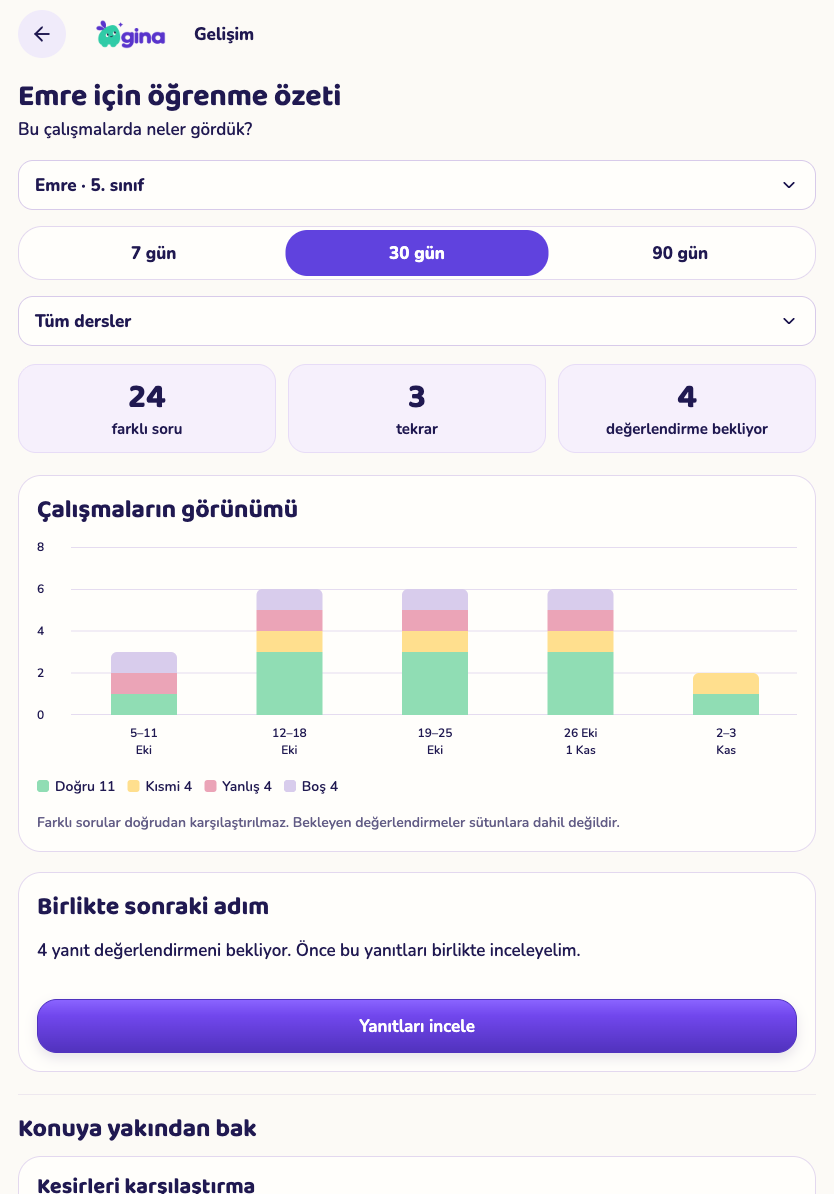
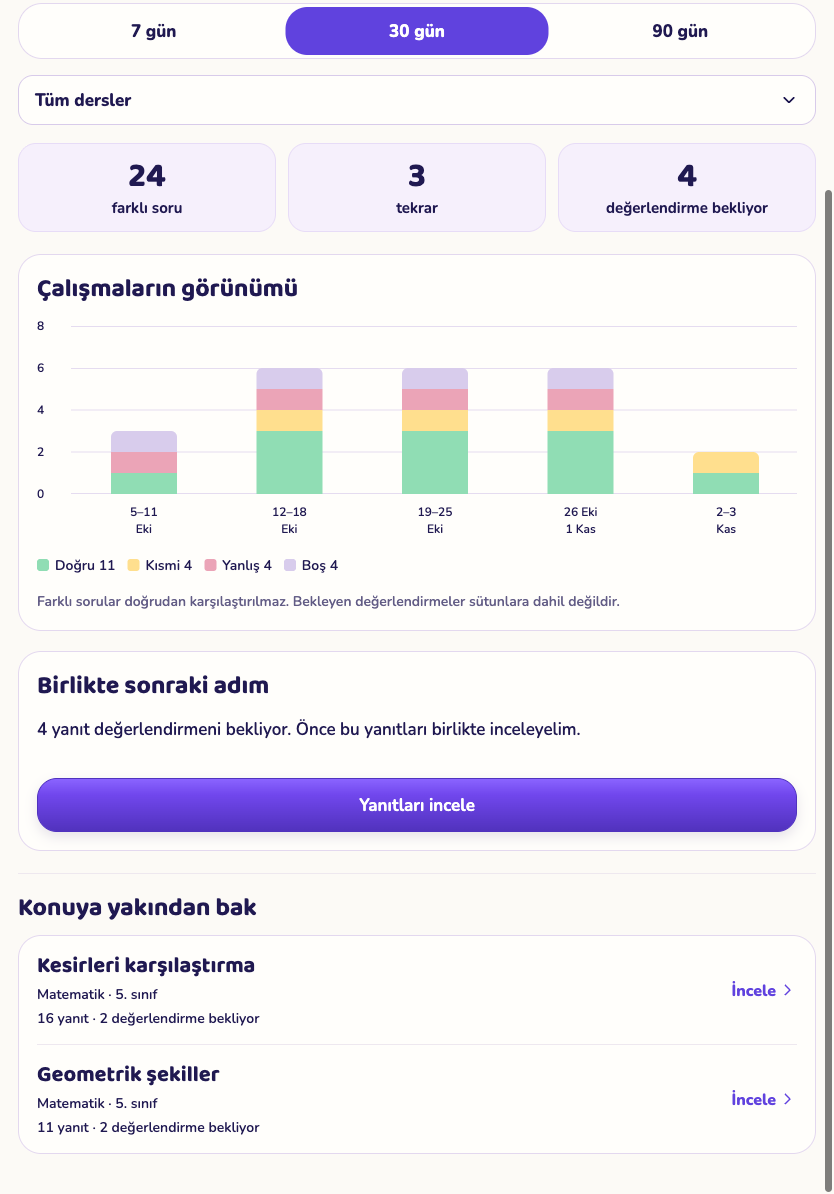
Record clean-session phone and tablet report verification

diff --git a/docs/learning/IMPLEMENTATION-PLAN.md b/docs/learning/IMPLEMENTATION-PLAN.md
@@ -2,14 +2,14 @@
 
 Kullanıcı: **“Hepsini bitirelim sonra yayına alırız.”** Önceki TestFlight dağıtım önceliği ertelendi. Aşağıdaki işler bitmeden yeni TestFlight/mağaza/kablosuz iPad yayını yapılmayacak. Bir PR'ın birleşmesi yayın anlamına gelmez. Yerel geliştirme ve izole testler sürer. Gerçek aile kayıtları reset/reseed edilmez. Önceden ertelenmiş gün/gece/hava ve geniş maskot animasyonları ilk sürüm dışında kalır.
 
-Yeni ekranlarda ekran bazında tasarım onayı korunur. Gelişim ekranı maketi `docs/design/screens/learning-progress/phone-tablet-proposal-v1.png`: **onaylandı**, uygulaması sürüyor; maket uygulama ekranı değildir. Onay beklenirken bağımsız altyapı ve kaynak doğrulama işleri sürdürülür.
+Yeni ekranlarda ekran bazında tasarım onayı korunur. Gelişim ekranı maketi `docs/design/screens/learning-progress/phone-tablet-proposal-v1.png`: **onaylandı ve uygulandı**. Gerçek web bileşeni telefon/tablet önizlemeleri aynı klasörde; native cihaz ve yayın kabulü sürer.
 
 | İş | Güncel durum / kapanış koşulu |
 |---|---|
 | Birleşik Prova | PR #57 main'de. Canlı migration/Edge ve yeni mobil paket dağıtılmadı. |
 | Defter/iPad hataları | Önceki PR #54/#55 kod düzeltmeleri var. Yeni native paketle gerçek cihaz yön/klavye/kalem/tam alan kontrolleri açık. |
 | Kalıcı cevap kurtarma | Bu artım: cihazda son cevap + belirsiz istek saklanır; yeniden açılış ve çakışma kontrolleri. Salt çevrimdışı sınav açma/soru indirme değildir. Native cihaz kontrolü açık. |
-| Gelişim raporu | Bu artım: aile/sınıf/program ayrı hesap, bekleyen/boş/kısmi ayrımı, kanıt soruları. Yeni ekran onayı alındı; uygulaması sürüyor. |
+| Gelişim raporu | Bu artım: aile/sınıf/program ayrı hesap, bekleyen/boş/kısmi ayrımı, kanıt soruları. Onaylı ekran uygulandı: 7/30/90 gün, sınıf/ders filtresi, soruya doğrudan geçiş, az gözlem ayrımı. Telefon/tablet web kabulü geçti; native kabul açık. |
 | MEB/müfredat | 16 resmî 2026–2027/1 tablo ve 648 senaryo adayı; 17 senaryoda açık kaynak yorumu gereği. Tam 1–12 program/çıktı kataloğu değildir. Kaynak incelemesi, okul senaryosu seçimi, katalog/API/AI ve sınav atama bağı açık. |
 | 20 soru / sınıf–ders | İlk matris 77 hücre / 1.540 aday hedefi. Bu havuzda üretim, cevap/görsel denetimi ve editoryal yayın açık; senaryo adayları soru sayılmaz. |
 | Görselli/ortak kaynak katkısı | Bağımsız medya kopyası, tam bağlamlı moderasyon, ödül politikası ve uçtan uca test açık. Mevcut engel erken kaldırılmaz. |

diff --git a/docs/learning/DEVELOPMENT-STATUS.md b/docs/learning/DEVELOPMENT-STATUS.md
@@ -166,3 +166,12 @@ Kullanıcının telefon/tablet maket onayı uygulandı: Ortak içerik → Sorula
 - `operations_members` süreli ve geri alınabilir dar roller getirir. Destek rolü AI, paket/para veya SSS yayın yetkisi kazanmaz. İçerik rolü destek yazışmalarını okuyamaz. Finans/yayın rol kayıtları henüz finans/yayın eylemlerini açmaz; mevcut genel yönetici API'leri değiştirilmedi. Backoffice giriş/menü entegrasyonu açık.
 - SSS taslağı ayrı sürümdür: düzenleme yayımlanmış yanıtı değiştirmez. Aynı sürüm için inceleme → yayın gerekir; yeni taslak eski incelemeyi devralmaz. Metin düz yazı sözleşmesidir, HTML olarak çalıştırılmayacak. Dil/platform alanları ve arşivleme vardır. Özel destek mesajından kendiliğinden SSS üretilmez.
 - 70 yeni pgTAP kontrolü; toplam 37 izole SQL dosyasında 821 kontrol geçti. Tüm workspace tür denetimleri geçti. Ekranlar, ek dosya yükleme, gerçek destek operasyonu ve mağaza iade entegrasyonu tamamlanmış değildir. Canlı migration/TestFlight yapılmadı.
+
+
+## 3 Kasım — onaylı Gelişim ekranı
+
+- Mevcut Prova/Gelişim yolu onaylı krem/mor/mint makete taşındı. Yeni paralel rapor menüsü eklenmedi. 7/30/90 günlük, çocuğa ait sınıf/ders kapsamı; tek çocukta gereksiz Tümü seçimi yok.
+- Farklı soru, tekrar ve bekleyen değerlendirme ayrı. Doğru/kısmi/yanlış/boş sütunları gerçek sayılardan çizilir. Bekleyen yanıtlar yanlış sayılmaz. Konular sınıf/program sürümüyle ayrılır; aynı sorunun tekrarı bağımsız gözlem sayılmaz. Eski “zayıf konu” ortalaması bu ekrandan kaldırıldı.
+- Konu açılınca en fazla beş kanıt yanıtı görünür; bağlantı doğru deneme ve soruyu açar. Veli notu/puanı veya toplu değerlendirme kaydedilince rapor önbelleği geçersizlenir.
+- 390×844, 1280×800 ve 834×1194 gerçek Expo web bileşenlerinde sentetik veriyle görüntü alındı; filtreler, 90 günlük yatay grafik, yanıt bağlantısı, geri dönüş, boş/yükleniyor/503 ve yeniden deneme doğrulandı. Temiz tarayıcı oturumunda açılış/geri dönüş/yenileme geçti. Ölçülen düğmeler en az 48 CSS px; sayfada yatay taşma yok.
+- 27 SQL rapor kontrolü, 63 core testi, workspace lint/typecheck geçti. `docs/design/screens/learning-progress/verification.json` sınırları açıklar. Web görüntüsü fiziksel iPad/Pencil, Dynamic Type veya VoiceOver kabulü değildir. Canlı hizmet ve TestFlight dağıtımı yapılmadı.
